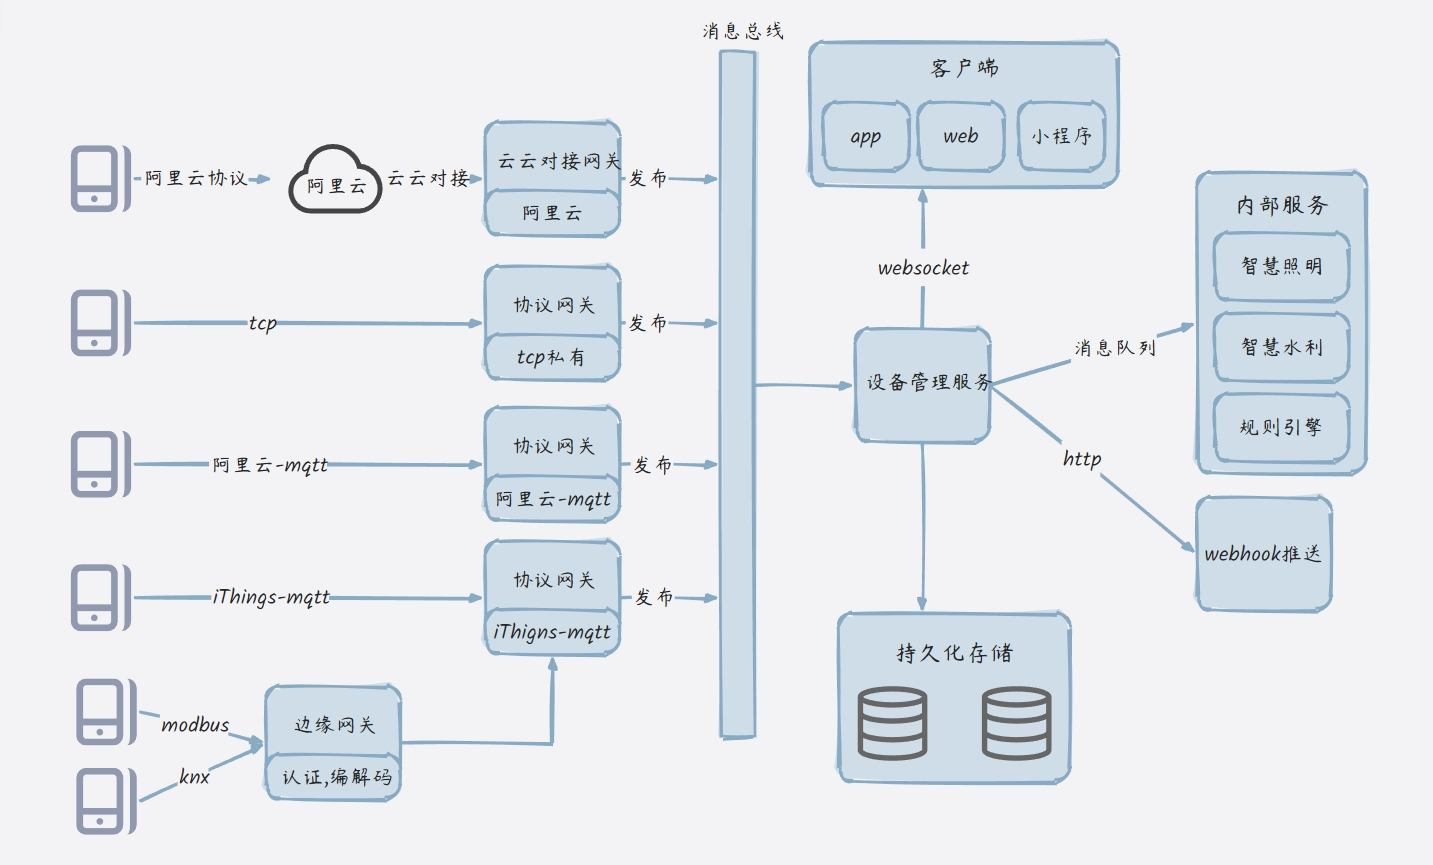
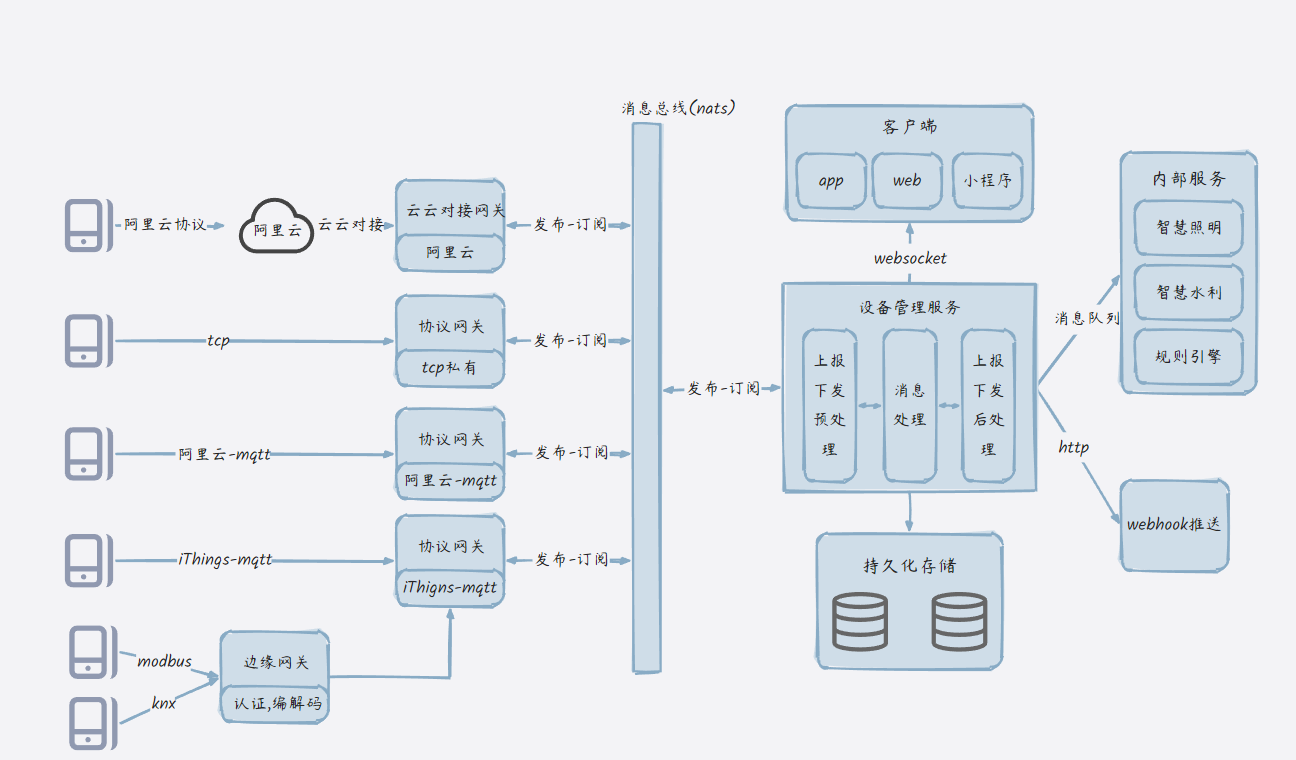
doc: 完善readme

diff --git a/README.md b/README.md
@@ -1,90 +1,255 @@
-# 产品概述
+# 联犀 - 物联网专家
+
 [![Go](https://github.com/zeromicro/go-zero/workflows/Go/badge.svg?branch=master)](https://github.com/unitedrhino/things/actions)
 [![Go Report Card](https://goreportcard.com/badge/github.com/zeromicro/go-zero)](https://goreportcard.com/report/github.com/unitedrhino/things)
 [![Go Reference](https://pkg.go.dev/badge/github.com/unitedrhino/things.svg)](https://pkg.go.dev/github.com/unitedrhino/things)
+![GitHub Repo stars](https://img.shields.io/github/stars/unitedrhino/things)
 
-**联犀** 是一款基于 Go 语言开发的商业级 SaaS 云原生微服务物联网平台，致力于帮助企业快速构建自己的物联网应用，实现快速业务落地。  
-[文档](https://doc.unitedrhino.com/)
-## 技术优势
-- **快速商用**：提供web,小程序,app,设备sdk及模组,少量开发即可上线。
-- **超强的拓展能力**：一套代码同时支持k8s,docker,可以通过http,grpc,nats及ws快速集成,完善的租户管理,应用管理,少量代码即可快速实现自己的业务
-- **高性能**：使用golang编写,选用高性能组件(emqx,nats,tdengine),极致的性能优化保证极端情况的稳定
+## 🚀 产品简介
 
-<img  src="./doc/assets/SaaS平台.png">  
+**联犀** 是一款基于 Go 语言开发的商业级 SaaS 云原生微服务物联网平台，原生多租户多应用，自带完整的小程序，云边协同，可以适用于各种场景，降低企业的开发维护成本。
 
-<img  src="./doc/assets/物联网.png">  
+<div style="background: linear-gradient(135deg, #667eea 0%, #764ba2 100%); padding: 20px; border-radius: 12px; color: white; margin: 20px 0;">
+  <h3 style="margin: 0 0 15px 0; color: white;">🎯 为什么选择联犀？</h3>
+  <ul style="margin: 0; padding-left: 20px;">
+    <li>✅ <strong>开箱即用</strong>：完整的物联网解决方案，无需从零搭建</li>
+    <li>✅ <strong>成本低廉</strong>：相比自建平台，节省 80% 开发成本</li>
+    <li>✅ <strong>快速上线</strong>：从项目启动到产品上线，仅需数周时间</li>
+    <li>✅ <strong>持续更新</strong>：活跃的开源社区，功能持续迭代优化</li>
+  </ul>
+</div>
 
-## 开源社区
-- **GitHub**: [联犀 GitHub](https://github.com/unitedrhino/things)
-- **Gitee**: [联犀 Gitee](https://gitee.com/unitedrhino/things)
+> 📖 [完整文档](https://doc.unitedrhino.com/) | 🌐 [在线体验](https://doc.unitedrhino.com/use/ezkveztg/) | 💬 [加入社区](https://doc.unitedrhino.com/community/)
 
-# 产品架构
+
+
+---
+
+## ✨ 核心特性
+
+### 🏢 多租户 & 多项目
+支持多租户及多项目，可以低成本接定制项目，满足不同企业的个性化需求。
+
+### 🔧 灵活部署
+一套代码支持单体、微服务及集群模式部署，最低可以在2G内存的机器上运行，最高可以支持百万设备。
+
+### ⚡ 快速接入
+默认支持多种协议（阿里云、腾讯云、涂鸦、电信、Modbus等），同时可以快速接入各种协议（MQTT、TCP、UDP、HTTP...）。
+
+### 📱 即用型小程序与App
+提供商业级小程序和App，通过简单编辑即可快速上线，无需从零开发。
+
+### 🛠 快速开发
+利用微前端技术，在SaaS平台上新建模块，仅开发差异化前端代码，大幅提升开发效率。
+
+### 🌟 一站式解决方案
+从设备软硬件到云端协议对接到Web及移动端全栈式解决方案，覆盖物联网全链路。
+
+### 🔌 完善的物联网功能
+灵活的OTA升级、场景联动、告警管理、规则引擎、组态、物模型（通用物模型、产品品类物模型、产品物模型、设备物模型）...
+
+### 🏗 强大的中台
+完善的通知机制（邮箱、短信、微信、企微、飞书、钉钉...），支持第三方用户部门同步，灵活的权限管理。
+
+## 🏗 产品架构
+
 联犀物联网平台作为物联网架构中的关键中介，实现设备与应用层的高效联动。它不仅向下管理物联网设备，完成数据的收集与存储，而且向上为开发者和集成商提供统一的数据接口和工具，加速物联网解决方案的开发和部署。
 
-通过 HTTP, gRPC 应用厂商可以快速将 联犀 集成到自己的系统中，实现轻量级且高效的物联网能力扩展。  
-<img  src="./doc/assets/部署架构图.png">
+### 物联网模块架构设计
 
-## 产品价值
+<img src="./doc/assets/物联网.png" alt="物联网架构" style="max-width: 100%; height: auto;"/>
 
-| 平台价值   | 描述                                        |
-|--------|-------------------------------------------|
-| 拓展能力强  | 支持单体和微服务架构，便于开发者在不同发展阶段灵活切换，无需维护两套代码。     |
-| 高性能    | 使用 golang 开发，依赖的第三方服务少，适应多种性能要求，可以快速水平拓展。 |
-| 数据价值   | 私有化部署，数据自主管理，无需担心公有云服务中断或成本问题。            |
-| 解决方案底座 | 作为行业解决方案的数字底座，支持多行业共用物联网平台，沉淀行业经验和产品方案。   |
+### SaaS中台架构设计
 
-## 产品特性
+<img src="./doc/assets/SaaS平台.png" alt="SaaS平台架构" style="max-width: 100%; height: auto;"/>
 
-- **设备接入**：支持 MQTT、CoAP 和 HTTP 等物联网协议，实现海量设备连接，同时支持协议网关，兼容任何协议。
-- **远程控制**：通过 HTTP API 实现服务器对设备的精准控制和设备主动通知。
-- **物模型**：支持标准物模型，有效管理设备属性、事件及行为。
-- **RBAC权限**：采用基于角色的访问控制（RBAC），提供完善的用户、角色、菜单权限管理。
-- **多租户多项目多应用**：支持低成本开发应用，便于多企业共享使用。
-- **应用支撑**：提供 HTTP, gRPC 接口，简化物联网解决方案开发，缩短上市周期，节省研发时间和成本。
-- **自主可控**：支持私有云、公有云、边缘部署等多种部署方式。
-- **快速开发及维护**：联犀 通过简化的接入流程和模块化开发，优化了物联网平台的开发体验。它提供了商业级小程序和 App 模板，允许快速上线，同时支持多租户架构以降低维护成本，并具备灵活的扩展能力以应对设备数量增长。
+### 部署架构图
 
-### 物联网模块
+<img src="./doc/assets/部署架构图.png" alt="部署架构" style="max-width: 100%; height: auto;"/>
 
-## 技术栈
+## 部分示例
 
-### 后端
-1. 微服务框架：[go-zero](https://go-zero.dev/)
-2. 高性能缓存：[redis](https://redis.io/)
-3. 高性能消息队列：[nats](https://docs.nats.io/)
-4. 关系型数据库：[mysql (推荐使用 MariaDB 或 MySQL 5.7)](https://mariadb.com/) 或 pgsql，未来将支持更多数据库
-5. 微服务注册中心（单体可不使用）：etcd
-6. 云原生轻量级对象存储(也可以使用阿里云oss)：[minio](https://min.io/)
-7. 开源、高性能、云原生时序数据处理平台(可选)：[tdengine](https://www.taosdata.com/)
-8. 大规模可弹性伸缩的云原生分布式物联网 MQTT 消息服务器：[emqx](https://docs.emqx.com/zh/emqx/latest/)
+### 低代码
 
-### 前端
-1. 渐进式 JavaScript 框架：[vue](https://cn.vuejs.org/)
-2. 企业级设计组件：[ant design](https://antdv.com/docs/vue/introduce-cn/)
+<img src="./doc/assets/低代码.png" alt="低代码" style="max-width: 100%; height: auto;"/>
 
-### 小程序
-1. [uniapp vue3](https://uniapp.dcloud.net.cn/)
+### 组态大屏
 
-### app(安卓, iOS, 鸿蒙)
-1. [uniapp x](https://doc.dcloud.net.cn/uni-app-x/)
-## 贡献者
+<img src="./doc/assets/组态大屏.png" alt="组态大屏" style="max-width: 100%; height: auto;"/>
+
+### 设备地图
+
+<img src="./doc/assets/设备地图.png" alt="设备地图" style="max-width: 100%; height: auto;"/>
+
+## 💎 产品价值
+
+| 平台价值 | 描述 |
+|---------|------|
+| **拓展能力强** | 支持单体和微服务架构，便于开发者在不同发展阶段灵活切换，无需维护两套代码 |
+| **高性能** | 使用 Golang 开发，依赖的第三方服务少，适应多种性能要求，可以快速水平拓展 |
+| **数据价值** | 私有化部署，数据自主管理，无需担心公有云服务中断或成本问题 |
+| **解决方案底座** | 作为行业解决方案的数字底座，支持多行业共用物联网平台，沉淀行业经验和产品方案 |
+
+## 🎖 谁在使用我们的产品？（部分）
+
+<div style="display: flex; flex-wrap: wrap; gap: 20px; justify-content: center; margin: 30px 0;">
+  <div style="text-align: center;">
+    <img src="./doc/assets/useBy/福建合创网络科技有限公司.png" alt="福建合创网络科技有限公司" style="width: 120px; height: 60px; object-fit: contain;"/>
+    <p>福建合创网络科技有限公司</p>
+  </div>
+  <div style="text-align: center;">
+    <img src="./doc/assets/useBy/深圳市易百珑科技有限公司.svg" alt="深圳市易百珑科技有限公司" style="width: 120px; height: 60px; object-fit: contain;"/>
+    <p>深圳市易百珑科技有限公司</p>
+  </div>
+  <div style="text-align: center;">
+    <img src="./doc/assets/useBy/联远智维.jpg" alt="联远智维" style="width: 120px; height: 60px; object-fit: contain;"/>
+    <p>联远智维</p>
+  </div>
+  <div style="text-align: center;">
+    <img src="./doc/assets/useBy/常州飞诺医疗技术有限公司.png" alt="常州飞诺医疗技术有限公司" style="width: 120px; height: 60px; object-fit: contain;"/>
+    <p>常州飞诺医疗技术有限公司</p>
+  </div>
+  <div style="text-align: center;">
+    <img src="./doc/assets/useBy/重庆图浩科技.jpg" alt="重庆图浩科技" style="width: 120px; height: 60px; object-fit: contain;"/>
+    <p>重庆图浩科技</p>
+  </div>
+  <div style="text-align: center;">
+    <img src="./doc/assets/useBy/杭州伟立讯.png" alt="杭州伟立讯" style="width: 120px; height: 60px; object-fit: contain;"/>
+    <p>杭州伟立讯</p>
+  </div>
+</div>
+
+## 🛠 技术栈
+
+### 后端技术
+- **微服务框架**: [go-zero](https://go-zero.dev/) - 高性能微服务框架
+- **高性能缓存**: [Redis](https://redis.io/) - 内存数据结构存储
+- **消息队列**: [NATS](https://docs.nats.io/) - 高性能消息系统
+- **关系型数据库**: [MySQL/MariaDB](https://mariadb.com/) 或 PostgreSQL
+- **服务注册中心**: [etcd](https://etcd.io/) (微服务模式)
+- **对象存储**: [MinIO](https://min.io/) 或本地存储阿里云,aws  - 云原生对象存储
+- **时序数据库**: [TDengine](https://www.taosdata.com/) 或 timescale - 高性能时序数据处理
+- **MQTT服务器**: [EMQX](https://docs.emqx.com/) 或 comqtt - 分布式物联网消息服务器
+
+### 前端技术
+- **框架**: [Vue.js](https://cn.vuejs.org/) - 渐进式JavaScript框架
+- **UI组件**: [Ant Design Vue](https://antdv.com/) - 企业级设计组件
+
+### 移动端
+- **小程序**: [uni-app Vue3](https://uniapp.dcloud.net.cn/) - 跨平台开发框架
+- **App**: [uni-app X](https://doc.dcloud.net.cn/uni-app-x/) - 支持安卓、iOS、鸿蒙
+
+## 🚀 快速开始
+
+### 🎯 5分钟快速体验
+
+想要快速体验联犀的强大功能？我们为你准备了完整的演示环境！
+
+<div style="background: #f8f9fa; padding: 20px; border-radius: 8px; border-left: 4px solid #007bff; margin: 20px 0;">
+  <h4 style="margin: 0 0 10px 0; color: #007bff;">🌟 在线演示环境</h4>
+  <p style="margin: 0 0 15px 0;">无需安装，立即体验联犀的完整功能</p>
+  <a href="https://doc.unitedrhino.com/use/ezkveztg/" style="background: #007bff; color: white; padding: 10px 20px; text-decoration: none; border-radius: 5px; display: inline-block;">🚀 立即体验</a>
+</div>
+
+### 📋 环境要求
+- **Go**: 1.19+
+- **数据库**: MySQL 5.7+ 或 PostgreSQL
+- **缓存**: Redis 6.0+
+- **容器**: Docker (可选，推荐)
+
+### 🛠 快速部署
+
+<div style="background: #e8f5e8; padding: 20px; border-radius: 8px; border-left: 4px solid #28a745; margin: 20px 0;">
+  <h4 style="margin: 0 0 10px 0; color: #28a745;">📚 详细部署指南</h4>
+  <p style="margin: 0 0 15px 0;">从环境准备到服务启动，一步步带你完成部署</p>
+  <a href="https://doc.unitedrhino.com/use/046431/" style="background: #28a745; color: white; padding: 10px 20px; text-decoration: none; border-radius: 5px; display: inline-block;">📖 查看部署文档</a>
+</div>
+
+### 💡 遇到问题？
+
+- **📖 查看文档**: [完整文档](https://doc.unitedrhino.com/)
+- **🐛 提交 Issue**: [GitHub Issues](https://github.com/unitedrhino/things/issues)
+- **💬 加入社区**: 扫码加入微信群，获得技术支持
+
+<div style="background: #fff3cd; padding: 15px; border-radius: 8px; border-left: 4px solid #ffc107; margin: 20px 0;">
+  <h4 style="margin: 0 0 10px 0; color: #856404;">💡 快速获取帮助</h4>
+  <p style="margin: 0 0 10px 0; color: #856404;">遇到技术问题？我们的微信群里有 500+ 物联网开发者，随时为你解答！</p>
+  <p style="margin: 0; color: #856404;"><strong>扫码加入微信群 → 获得即时技术支持</strong></p>
+</div>
+
+## 🤝 开源社区
+
+- **GitHub**: [联犀 GitHub](https://github.com/unitedrhino/things)
+- **Gitee**: [联犀 Gitee](https://gitee.com/unitedrhino/things)
+- **官网**: [联犀官网](https://doc.unitedrhino.com/)
+
+## 👥 贡献者
 
 感谢所有已经做出贡献的人!
 
-### 后端
-
 <a href="https://github.com/unitedrhino/things/graphs/contributors">
-  <img src="https://contributors-img.web.app/image?repo=unitedrhino/things" />
+  <img src="https://contributors-img.web.app/image?repo=unitedrhino/things" alt="贡献者" />
 </a>
 
+## 💬 加入我们的社区
 
-## 社区
+### 🎯 为什么加入我们的社区？
 
-- 微信(加我拉微信群): `godLei6` (需备注“来自github”)
-- [官网](https://doc.unitedrhino.com/)
-- 微信二维码
-- <img style="width: 300px;" src="./doc/assets/微信二维码.jpg">
+- **🚀 获取最新资讯**：第一时间了解产品更新、新功能发布
+- **💡 技术交流**：与物联网专家、开发者深度交流技术问题
+- **🔧 问题解答**：遇到问题？群里的大神们随时为你解答
+- **🤝 资源共享**：分享技术文档、最佳实践、行业案例
+- **🎁 专属福利**：群内用户专享的技术支持、优先体验新功能
+- **📈 职业发展**：结识行业同仁，拓展人脉资源
 
-## 收藏
+### 📱 微信交流群
 
-<img src="https://starchart.cc/unitedrhino/things.svg">
+> 💬 **群内已有 500+ 物联网开发者，期待你的加入！**
+
+<img src="./doc/assets/企业微信二维码.png" alt="企业微信二维码" style="width: 200px; border-radius: 8px; box-shadow: 0 4px 12px rgba(0,0,0,0.1);"/>
+
+**扫码加入，开启你的物联网之旅！**
+
+### 📢 公众号
+
+关注公众号，获取更多精彩内容：
+
+<img src="./doc/assets/公众号.jpg" alt="公众号" style="width: 200px; border-radius: 8px; box-shadow: 0 4px 12px rgba(0,0,0,0.1);"/>
+
+### 🌟 社区活动
+
+- **每周技术分享**：邀请行业专家分享物联网前沿技术
+- **产品体验官**：优先体验新功能，反馈建议
+- **开源贡献者计划**：参与开源项目，获得专属荣誉
+- **线下技术沙龙**：定期举办线下交流活动
+
+### 📞 其他联系方式
+
+- **微信**: godLei6
+- **官网**: [https://doc.unitedrhino.com/](https://doc.unitedrhino.com/)
+- **GitHub Issues**: [提交问题反馈](https://github.com/unitedrhino/things/issues)
+
+## ⭐ 收藏项目
+
+<img src="https://starchart.cc/unitedrhino/things.svg" alt="Star History" />
+
+::: tip 💡 提示
+如需关注最新版本变化，请移步：[Gitee](https://gitee.com/unitedrhino/things)
+:::
+
+## 📄 许可证
+
+本项目采用 [Apache License 2.0](LICENSE) 开源许可证。
+
+---
+
+<div style="text-align: center; margin-top: 50px; padding: 30px; background: linear-gradient(135deg, #f5f7fa 0%, #c3cfe2 100%); border-radius: 12px;">
+  <h3 style="margin: 0 0 20px 0; color: #333;">🚀 开始你的物联网之旅</h3>
+  <p style="margin: 0 0 15px 0; color: #666; font-size: 16px;">如果这个项目对您有帮助，请给我们一个 ⭐ Star</p>
+  <p style="margin: 0 0 20px 0; color: #666;">💬 加入我们的社区，与 500+ 物联网开发者一起交流学习</p>
+  <div style="display: flex; justify-content: center; gap: 20px; margin-top: 20px;">
+    <a href="https://github.com/unitedrhino/things" style="background: #333; color: white; padding: 10px 20px; text-decoration: none; border-radius: 5px;">⭐ Star on GitHub</a>
+    <a href="https://gitee.com/unitedrhino/things" style="background: #c71d23; color: white; padding: 10px 20px; text-decoration: none; border-radius: 5px;">⭐ Star on Gitee</a>
+  </div>
+  <p style="margin: 20px 0 0 0; color: #999; font-size: 14px;">Made with ❤ by 联犀团队</p>
+</div>
